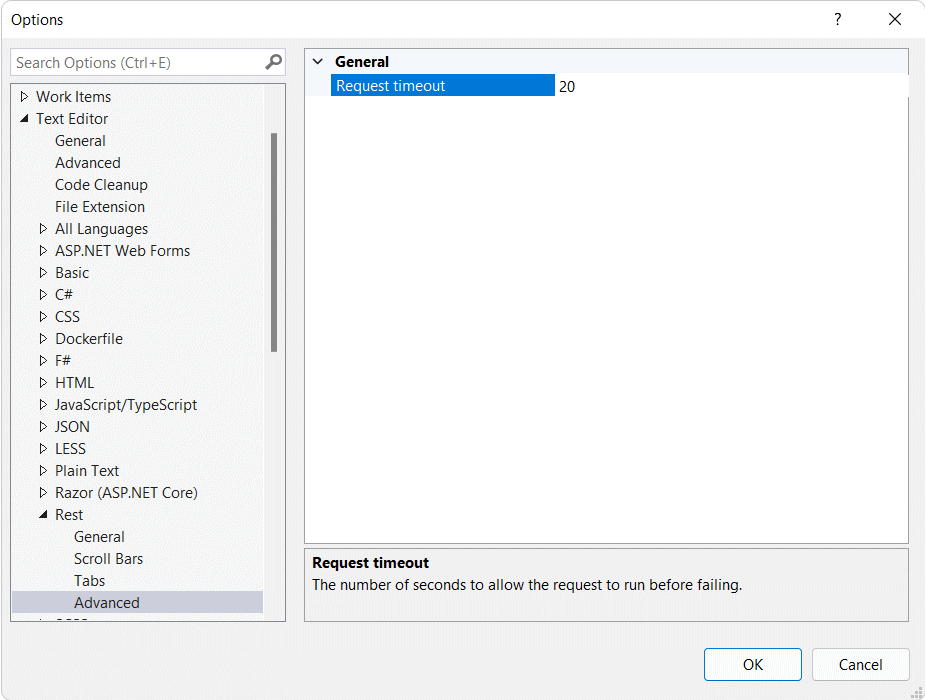
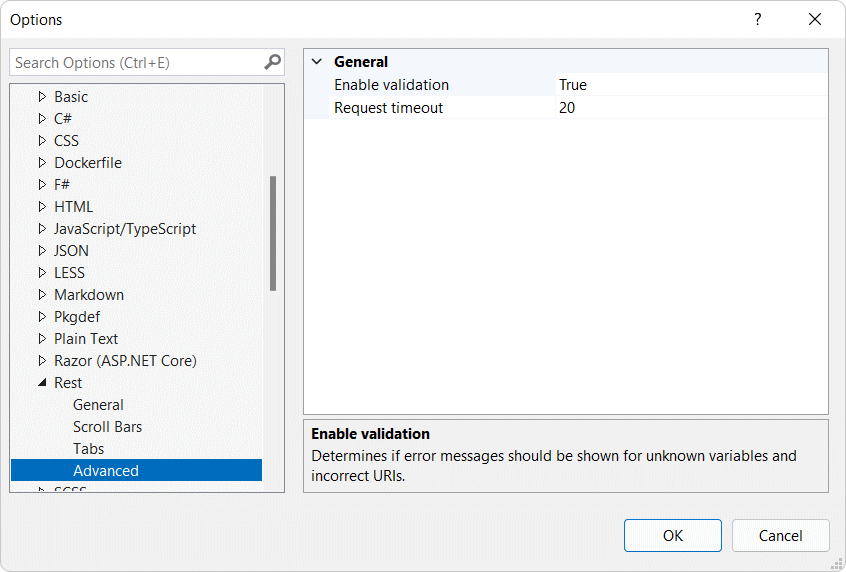
Added validation setting [release]

diff --git a/src/RestClientVS/RestDocument.cs b/src/RestClientVS/RestDocument.cs
@@ -19,8 +19,9 @@ namespace RestClientVS
         {
             _buffer = buffer;
             _buffer.Changed += BufferChanged;
-
             FileName = buffer.GetFileName();
+
+            General.Saved += OnSettingsSaved;
 
             ThreadHelper.JoinableTaskFactory.RunAsync(async () =>
             {
@@ -42,11 +43,17 @@ namespace RestClientVS
             Parse();
         }
 
+        private void OnSettingsSaved(General obj)
+        {
+            ParseAsync().FireAndForget();
+        }
+
         public void Dispose()
         {
             if (!_isDisposed)
             {
                 _buffer.Changed -= BufferChanged;
+                General.Saved -= OnSettingsSaved;
             }
 
             _isDisposed = true;

diff --git a/src/RestClientVS/Options/General.cs b/src/RestClientVS/Options/General.cs
@@ -17,9 +17,16 @@ namespace RestClientVS
         [DefaultValue(20)]
         public int Timeout { get; set; } = 20;
 
+        [Category("General")]
+        [DisplayName("Enable validation")]
+        [Description("Determines if error messages should be shown for unknown variables and incorrect URIs.")]
+        [DefaultValue(true)]
+        public bool EnableValidation { get; set; } = true;
+
         [Category("Response")]
         [DisplayName("Response Window Width")]
         [Description("The number of seconds to allow the request to run before failing.")]
+        [Browsable(false)]
         [DefaultValue(500)]
         public int ResponseWindowWidth { get; set; } = 500;
     }

diff --git a/src/RestClientVS/Language/TokenTagger.cs b/src/RestClientVS/Language/TokenTagger.cs
@@ -95,6 +95,11 @@ namespace RestClientVS
 
         private IEnumerable<ErrorListItem> CreateErrorListItem(ParseItem item)
         {
+            if (!General.Instance.EnableValidation)
+            {
+                yield break;
+            }
+
             ITextSnapshotLine line = _buffer.CurrentSnapshot.GetLineFromPosition(item.Start);
 
             foreach (Error error in item.Errors)

diff --git a/README.md b/README.md
@@ -7,6 +7,8 @@ or get the [CI build](https://www.vsixgallery.com/extension/RestClientVS.a7b4a36
 
 REST Client allows you to send HTTP request and view the response in Visual Studio directly. Based on the popular VS Code extension [Rest Client](https://marketplace.visualstudio.com/items?itemName=humao.rest-client) by [Huachao Mao](https://github.com/Huachao)
 
+![Screenshot](art/screenshot.png)
+
 ## The .http file
 Any files with the extension `.http` is the entry point to creating HTTP requests.
 
@@ -40,11 +42,7 @@ This is what it looks like in the Blue Theme.
 
 ![Document](art/document.png)
 
-Notice the green play buttons showing up after each URL. Clicking those will fire off the request and display the raw response in the Output Widow.
-
-![Output](art/output.png)
-
-Peek at the value of the variables by moving the mouse over any line containing a variable reference.
+Notice the green play buttons showing up after each URL. Clicking those will fire off the request and display the raw response on the right side of the document.
 
 ![Tooltip](art/tooltip.png)
 
